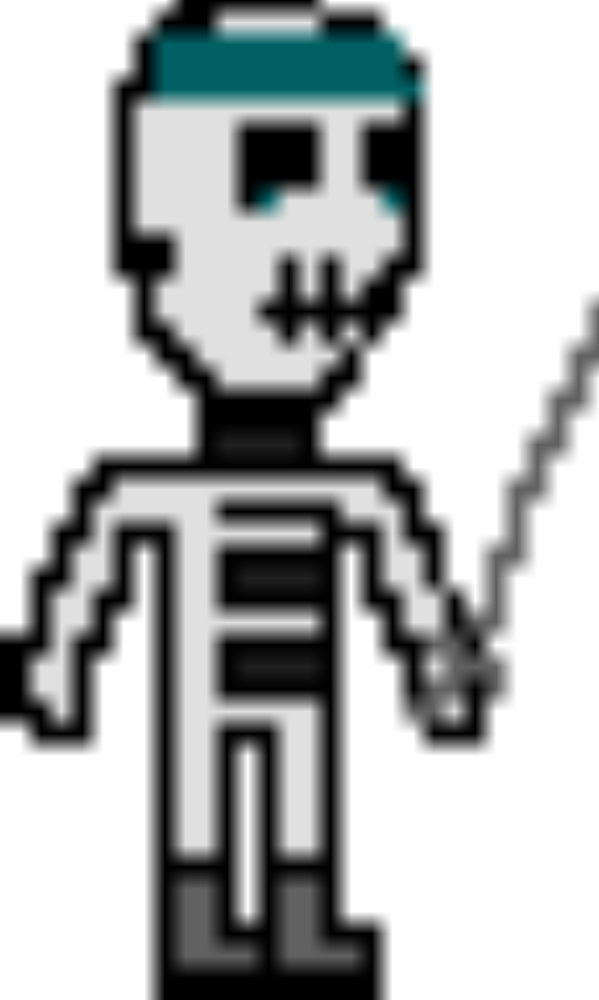
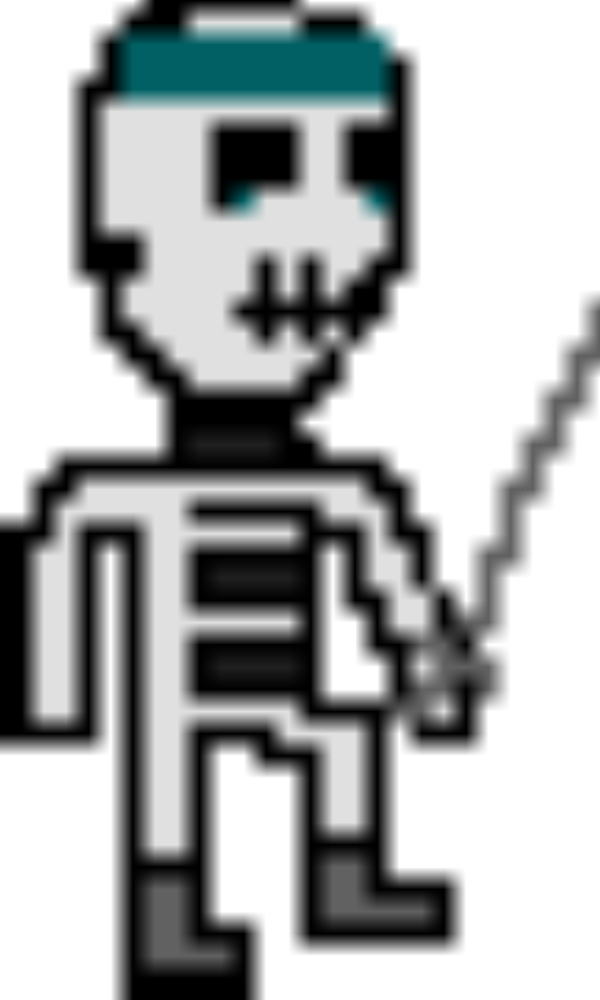
Idil new (#44)
* background music is added

* background music adjusted

* how to play screen, music on/off option and  its sprite is added, pause fonts adjusted

* mute button sprites fixed

* small adjustments about music

* skeleton sprites added, more states will be added

* skeleton can walk

* added potion drinking sound

* skeleton new sprites

diff --git a/core/src/com/cornichon/views/textures/Textures.java b/core/src/com/cornichon/views/textures/Textures.java
@@ -23,8 +23,8 @@ public class Textures {
   public static final Texture SPHERE_BUFFED = new Texture(Gdx.files.internal("images/sphere_buffed.png"));
 
   public static final Texture SKELETON_IDLE = new Texture(Gdx.files.internal("images/skeleton_idle.png"));
-  public static final Texture SKELETON_LEFT1 = new Texture(Gdx.files.internal("images/skeleton_left1.png"));
-  public static final Texture SKELETON_LEFT2 = new Texture(Gdx.files.internal("images/skeleton_left2.png"));
+  public static final Texture SKELETON_LEFT1 = new Texture(Gdx.files.internal("images/SKELETON_walking.png"));
+  public static final Texture SKELETON_LEFT2 = new Texture(Gdx.files.internal("images/SKELETON_walking2.png"));
   public static final Texture SKELETON_RIGHT1 = new Texture(Gdx.files.internal("images/skeleton_right1.png"));
   public static final Texture SKELETON_RIGHT2 = new Texture(Gdx.files.internal("images/skeleton_right2.png"));
 
